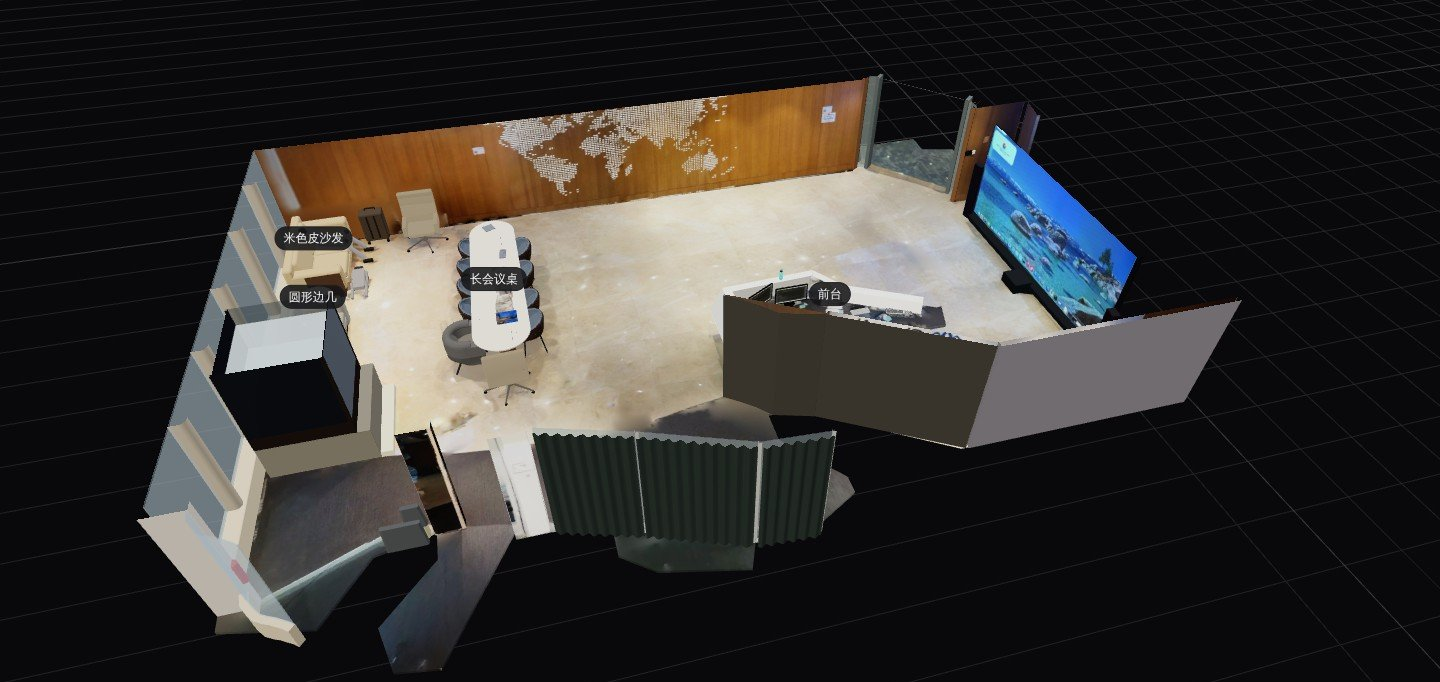
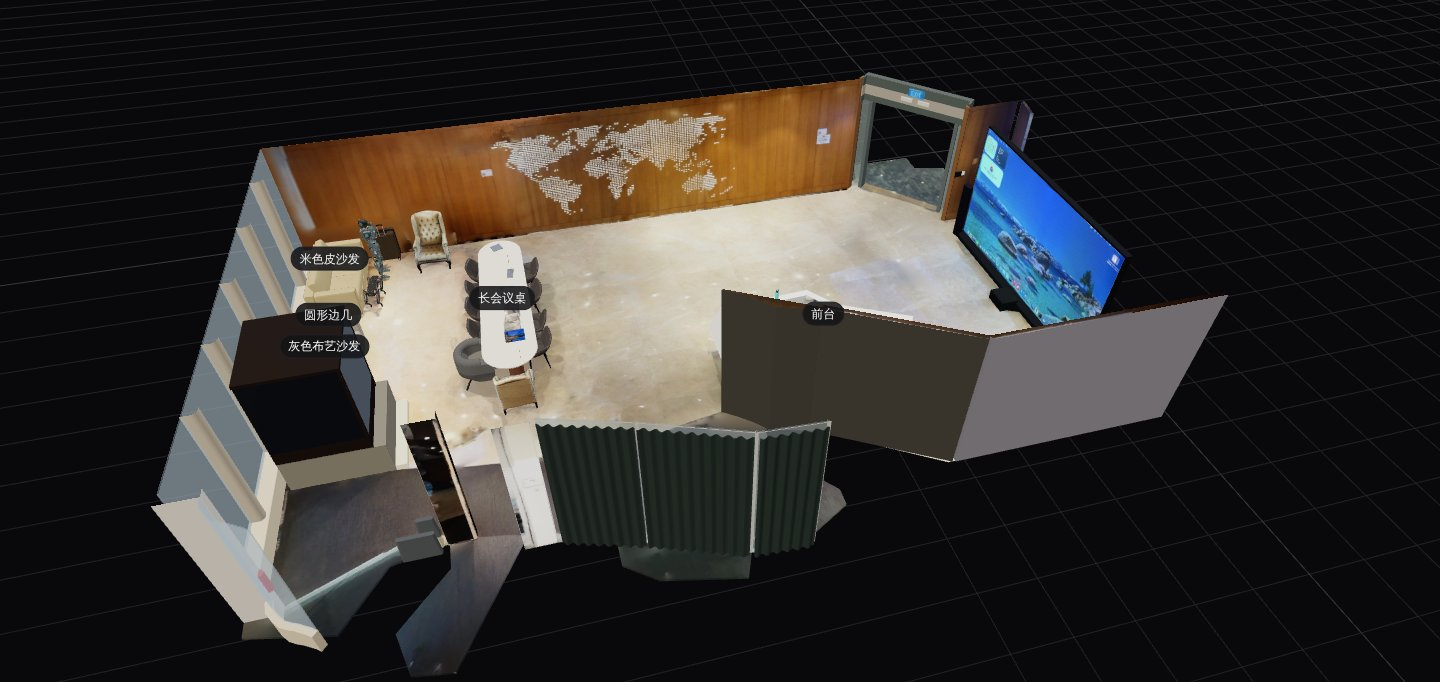
文档：演示说明改成前厅第 4 版（精致模型版）
开头的数量、效果（4.40 / 8.96 / 64.8%，与第 3 版、现有算法对照）和加载量；"怎么做出来的"补第二轮：两组换模型、
按导出后的样子复核、上线前的数据修正和遗留；逐件清单和署名表按物件集重新生成（26 件外部模型物件、16 个模型，
全部 CC-BY-4.0，导出成 17 个 glb）；复现步骤补第 4 版实际用的命令；更新线上一节写明发布页 demo-assets 和上传
工作流；本地全流程验证补第 4 版种子包的新库导入；展示图换成这次的截图。

Claude-Session: https://claude.ai/code/session_01FJGySrWzKJ4gCuSB2XMwW7

Changed region(s): [[0.0938, 0.0924, 0.875, 0.9853], [0.7812, 0.4927, 0.8438, 0.6158], [0.4688, 0.4927, 0.5, 0.5235]]

diff --git a/infra/chrono-cd/demo/README.md b/infra/chrono-cd/demo/README.md
@@ -1,30 +1,31 @@
 # 前厅 AI 物件集（演示空间 `chronoai-lobby`）
 
 [`lobby-authored.json`](lobby-authored.json) 是 ChronoAI 办公室前厅的 **AI 物件集**（设计 6.3"AI 逐件建模"，格式见
-[`recon/README.md`](../../../recon/README.md)"AI 物件集"）：本地的 AI 对着 Scaniverse 扫描逐件做出来的前厅，
-线上第 3 版的重建层就是它（"优化模型"视图里看到的），不再用物体重建算法的结果。第 3 版是处理服务还在时由部署配置种子
-导入的；服务端瘦身以后（[`docs/design/server-slim.md`](../../../docs/design/server-slim.md)），物件集只在本地用：
-`metaverse-recon bundle --authored` 把它打成重建包，再由命令行推送或由种子导入（下面"如何更新线上"）。
+[`recon/README.md`](../../../recon/README.md)"AI 物件集"）：本地的 AI 对着 Scaniverse 扫描逐件做出来的前厅。现在这份是
+**第二轮的精致模型版**，线上第 4 版的重建层就是它（"优化模型"视图里看到的）：在第 3 版（第一轮，大多数物件手写）的基础上，
+常见物件换成精致、带贴图的现成模型。第 1–3 版是处理服务还在时由部署配置种子导入的；服务端瘦身以后
+（[`docs/design/server-slim.md`](../../../docs/design/server-slim.md)），物件集只在本地用：`metaverse-recon bundle --authored`
+把它打成重建包，第 4 版由种子导入这个包（下面"如何更新线上"，清单和来源表在 [`lobby-r4/`](lobby-r4/)）。
+第 3 版的物件集在 git 历史里（`git show f05c624:infra/chrono-cd/demo/lobby-authored.json`）。
 
 | 内容 | 数量 |
 |---|---|
-| 模板 | 1 个（会议椅 `tpl-meeting-chair`，8 把会议椅共用） |
-| 物件 | 52 个：手写形状 36 个（其中 8 个是模板实例、13 个带烘焙指令）、外部模型 10 个（Objaverse，8 个不同的模型，全部 CC-BY-4.0）、结构 6 个 |
-| 结构 | `structure: "replace"`：地面、4 面墙、南面玻璃幕墙用物件集里的（算法结果按扫描实测改了 3 件的几何） |
-| `notes` | 整房评审与合并报告（每件怎么来的、改了什么、偏差、遗留问题），打包时写成建模记录 `notes.md`，提交的 `scriptRef` 指向它（种子用的包 `--seed` 不带） |
-| 大小 | 285,415 字节（上限 4MB） |
+| 模板 | 0 个（第 3 版的会议椅模板 `tpl-meeting-chair` 不再用，8 把会议椅改成外部模型物件） |
+| 物件 | 52 个：手写形状 20 个（其中 10 个带烘焙指令）、外部模型 26 个（Objaverse，16 个不同的模型，全部 CC-BY-4.0）、结构 6 个 |
+| 结构 | `structure: "replace"`：地面、4 面墙、南面玻璃幕墙用物件集里的（与第 3 版相同；算法结果按扫描实测改了 3 件的几何） |
+| `notes` | 第二轮的合并与复核记录（每件怎么来的、改了什么、偏差、遗留问题）和上线前的数据修正，打包时写成建模记录 `notes.md`，提交的 `scriptRef` 指向它（种子用的包 `--seed` 不带） |
+| 大小 | 136,817 字节（上限 4MB） |
 
 **效果**（整房 91,110 个扫描点，剖切掉 2.2 米以上；扫描点到模型的距离，厘米）：
 
 | | 均值 | 90% 分位 | 3 厘米以内 |
 |---|---|---|---|
 | 现有算法（算法物体 + 算法结构） | 7.11 | 15.13 | 51.3% |
-| 六组产出直接合并、结构沿用算法（评审前） | 5.74 | 13.18 | 54.3% |
-| 合并稿（结构改正 + 补漏建 + 穿插修正） | 4.31 | 8.71 | 67.0% |
-| **本物件集**（合并稿再经独立评审修正 5 处，线上第 3 版） | **4.19** | **8.18** | **68.2%** |
+| 第一轮定稿（线上第 3 版） | 4.19 | 8.18 | 68.2% |
+| **本物件集**（第二轮精致模型版，线上第 4 版） | **4.40** | **8.96** | **64.8%** |
 
-（以前这里写的 4.31 / 8.71 / 67.0% 是合并稿的数；独立评审修正后的定稿就是本目录的 `lobby-authored.json`，按同样的口径
-重算是 4.19 / 8.18 / 68.2%，见 [`docs/PROGRESS.md`](../../../docs/PROGRESS.md) 第 6 节、方法论第 1 章。）
+第二轮换的是外观：现成模型的造型、材质和贴图比手写的参数形状精致得多，但它们不是照着这间屋子做的，尺寸和比例只能按扫描
+缩放摆放，所以和扫描的距离比第一轮略大。网站"优化"视图要下载的接口数据约 18.7 MB（物件模型 18.3 MB），第 3 版约 12 MB。
 
 展示图（`showcase/`）：下面"本地全流程验证"里网站"优化"视图的截图（去掉了页面的标题栏和底部控件），烘焙贴图、
 灯光和网站上看到的一样：
@@ -32,8 +33,8 @@
 | | |
 |---|---|
 | ![总览](showcase/6-overview.jpg) | ![入口的 LED 大屏墙（烘焙贴图）](showcase/1-entry.jpg) |
-| ![前台](showcase/2-reception.jpg) | ![会议区](showcase/3-meeting.jpg) |
-| ![休息区](showcase/4-lounge.jpg) | |
+| ![前台](showcase/2-reception.jpg) | ![会议区：8 把会议椅换成同一个现成模型](showcase/3-meeting.jpg) |
+| ![休息区：机器狗、人形机器人、行李箱、休闲椅](showcase/4-lounge.jpg) | |
 
 ## 怎么做出来的
 
@@ -58,13 +59,30 @@
      立柱（六组都没认领）；
    - **穿插和悬空**：沙发靠背伸进窗台、会议椅座面伸进桌脚、几件东西悬空 2–6 厘米等，逐一改掉。
 
-   每件的过程、改动和偏差见 `notes`（物件集里的 `notes` 字段，也就是评审报告）。
+   每件的过程、改动和偏差见 `notes`（物件集里的 `notes` 字段，也就是评审报告）。以上是第一轮（线上第 3 版）。
+
+**第二轮（线上第 4 版）**：在第一轮定稿的基础上，按同样的"先搜后写"规则，把常见物件换成精致、带贴图的现成模型：
+
+- **两组并行**：座椅组（会议椅 8 把、休闲椅 2 把、两张沙发、圆形边几、灰色会议椅，共 14 件）和小件组（人形机器人、
+  机器狗、行李箱、背包、袋子、打印机，共 8 件），按编号整件替换第一轮的记录；8 把会议椅换成同一个外部模型摆 8 份，
+  会议椅模板不再被引用，删掉。
+- **按导入后的样子复核**：两组挑模型时看的是原文件，导出成受限 glb 以后有几件贴图坏了（多材质合成图集成了噪点、
+  平铺贴图出现划痕和接缝），逐件按导出后的样子重看：圆形边几 `table-02`、灰色会议椅 `chair-11` 退回第一轮的手写版，
+  两张沙发换成导出干净的另一个模型，机器狗为了不碰新沙发往房间里挪了 5 厘米。穿模、落地、朝向、尺度、颜色逐件看过。
+- **上线前的数据修正**（设计 S10）：12 件物件的标签去掉括号里的建模说明（会议椅、休闲椅、两张沙发；标签会成为公开
+  锚点的名称和"模型来源"面板的"用于"），说明挪进 `notes`；`sofa-01` 用"米色皮沙发"，与线上第 1–3 版建的公开锚点同名；
+  机器狗 `clutter-09` 去掉调色——那个调色是对着旧导出（丢了贴图的白模）调的，现在的导出带回原文件的深灰机身和橙色
+  关节，再乘调色就几乎全黑。
+
+遗留：休闲椅是古典拉扣款（实物是现代米色高背转椅）；机器人、机器狗是站姿（库里没有坐姿、靠姿的人形机器人）；两张沙发是
+同一个模型调两种颜色；前台显示器的屏幕按原文件是黑色。
 
 ## 逐件清单
 
 路线："手写"是 AI 按扫描实测写的参数形状（本仓库的内容）；"+ 烘焙贴图"表示有部件写了 `bake`，打包时从扫描烘焙成
 贴图；"模型库"是外部模型，打包时本地工具按地址下载、核对 sha256 和大小，把俯仰、横滚、缩放、调色烘进网格（偏航写进
-记录，只差偏航的共用一个文件），重新导出成受限的 glb。线上第 3 版是处理服务按当时同样的规则做的。
+记录，只差偏航的共用一个文件），重新导出成受限的 glb。第 4 版的包由本地工具 `bundle` 导出：26 件外部模型物件导出成
+17 个 glb（8 把会议椅、2 把休闲椅、2 台显示器只差偏航，各共用一个文件；两张沙发是同一个模型但调色不同，各一个文件）。
 
 | 区域 | 编号 | 名称 | 路线 | 来源与许可 |
 |---|---|---|---|---|
@@ -78,43 +96,42 @@
 | 前台 | `reception-monitor-1` | 显示器 | 模型库（Objaverse） | 《Computer Monitor 16:9 (Low Poly, Game Ready)》Skript47，CC-BY-4.0 |
 | 前台 | `reception-monitor-2` | 显示器 | 模型库（Objaverse） | 《Computer Monitor 16:9 (Low Poly, Game Ready)》Skript47，CC-BY-4.0 |
 | 前台 | `reception-office-chair` | 办公椅 | 模型库（Objaverse），调色 [141, 149, 151] | 《Office (home) black chair.》Nik Vega，CC-BY-4.0 |
-| 会议区 | `tpl-meeting-chair` | 会议椅（桶形扶手椅，四条外撇细腿） | 手写（模板，8 把会议椅共用） | 本仓库手写 |
-| 会议区 | `chair-02` | 会议椅 | 手写（模板 `tpl-meeting-chair` 的实例） | 本仓库手写 |
-| 会议区 | `chair-03` | 会议椅 | 手写（模板 `tpl-meeting-chair` 的实例） | 本仓库手写 |
-| 会议区 | `chair-04` | 会议椅 | 手写（模板 `tpl-meeting-chair` 的实例） | 本仓库手写 |
-| 会议区 | `chair-05` | 会议椅 | 手写（模板 `tpl-meeting-chair` 的实例） | 本仓库手写 |
-| 会议区 | `chair-07` | 会议椅 | 手写（模板 `tpl-meeting-chair` 的实例） | 本仓库手写 |
-| 会议区 | `chair-08` | 会议椅 | 手写（模板 `tpl-meeting-chair` 的实例） | 本仓库手写 |
-| 会议区 | `chair-09` | 会议椅 | 手写（模板 `tpl-meeting-chair` 的实例） | 本仓库手写 |
-| 会议区 | `chair-10` | 会议椅 | 手写（模板 `tpl-meeting-chair` 的实例） | 本仓库手写 |
+| 会议区 | `chair-02` | 会议椅 | 模型库（Objaverse） | 《Ervin gray leather black legs》sil3dfurniture，CC-BY-4.0 |
+| 会议区 | `chair-03` | 会议椅 | 模型库（Objaverse） | 《Ervin gray leather black legs》sil3dfurniture，CC-BY-4.0 |
+| 会议区 | `chair-04` | 会议椅 | 模型库（Objaverse） | 《Ervin gray leather black legs》sil3dfurniture，CC-BY-4.0 |
+| 会议区 | `chair-05` | 会议椅 | 模型库（Objaverse） | 《Ervin gray leather black legs》sil3dfurniture，CC-BY-4.0 |
+| 会议区 | `chair-07` | 会议椅 | 模型库（Objaverse） | 《Ervin gray leather black legs》sil3dfurniture，CC-BY-4.0 |
+| 会议区 | `chair-08` | 会议椅 | 模型库（Objaverse） | 《Ervin gray leather black legs》sil3dfurniture，CC-BY-4.0 |
+| 会议区 | `chair-09` | 会议椅 | 模型库（Objaverse） | 《Ervin gray leather black legs》sil3dfurniture，CC-BY-4.0 |
+| 会议区 | `chair-10` | 会议椅 | 模型库（Objaverse） | 《Ervin gray leather black legs》sil3dfurniture，CC-BY-4.0 |
 | 会议区 | `chair-11` | 灰色桶形会议椅 | 手写 | 本仓库手写 |
 | 会议区 | `meeting-notebook` | 桌上的灰色笔记本 | 手写 | 本仓库手写 |
 | 会议区 | `table-01` | 长会议桌 | 手写 | 本仓库手写 |
-| 休息区 | `chair-06` | 休闲椅（高背行政椅） | 模型库（Objaverse），调色 [232, 220, 204] | 《Low Poly Executive Conference Room Chair》Jeremy E. Grayson，CC-BY-4.0 |
-| 休息区 | `chair-12` | 休闲椅（高背行政椅） | 模型库（Objaverse），调色 [232, 220, 204] | 《Low Poly Executive Conference Room Chair》Jeremy E. Grayson，CC-BY-4.0 |
-| 休息区 | `clutter-08` | 行李箱 | 手写 | 本仓库手写 |
-| 休息区 | `clutter-09` | 机器狗 | 手写 | 本仓库手写 |
-| 休息区 | `lounge-robot` | 人形机器人（斜靠在米色沙发上） | 手写 | 本仓库手写 |
-| 休息区 | `sofa-01` | 米色皮沙发 | 手写 | 本仓库手写 |
-| 休息区 | `sofa-02` | 灰色布艺沙发 | 手写 | 本仓库手写 |
+| 休息区 | `chair-06` | 休闲椅 | 模型库（Objaverse） | 《Upholstered Chair》markpi，CC-BY-4.0 |
+| 休息区 | `chair-12` | 休闲椅 | 模型库（Objaverse） | 《Upholstered Chair》markpi，CC-BY-4.0 |
+| 休息区 | `clutter-08` | 行李箱 | 模型库（Objaverse），调色 [210, 162, 158] | 《Hard Trolley Bag With Adjustable Handle》adrian saputra，CC-BY-4.0 |
+| 休息区 | `clutter-09` | 机器狗（四足） | 模型库（Objaverse） | 《Boston Dynamics robot spot》ASHISH，CC-BY-4.0 |
+| 休息区 | `lounge-robot` | 人形机器人（站在米色沙发前） | 模型库（Objaverse） | 《Robot A.L.E.X》shonwall360，CC-BY-4.0 |
+| 休息区 | `sofa-01` | 米色皮沙发 | 模型库（Objaverse），调色 [215, 198, 153] | 《Simple Light Gray Couch》catalinberta，CC-BY-4.0 |
+| 休息区 | `sofa-02` | 灰色布艺沙发 | 模型库（Objaverse），调色 [195, 190, 178] | 《Simple Light Gray Couch》catalinberta，CC-BY-4.0 |
 | 休息区 | `table-02` | 圆形边几 | 手写 | 本仓库手写 |
 | 东侧隔断与柜子 | `cabinet-03` | 东侧玻璃隔断 | 手写 | 本仓库手写 |
 | 东侧隔断与柜子 | `cabinet-04` | 杂物（布袋） | 手写 | 本仓库手写 |
 | 东侧隔断与柜子 | `cabinet-05` | 镜面玻璃展示柜 | 手写 | 本仓库手写 |
 | 东侧隔断与柜子 | `cabinet-06` | 东南角白色墙垛（挂灭火器） | 手写 | 本仓库手写 |
 | 东侧隔断与柜子 | `cabinets-se-curved-window` | 东南角弧形窗（窗台 + 玻璃） | 手写 | 本仓库手写 |
-| 杂物 | `clutter-01` | 黑色背包 | 模型库（Objaverse），调色 [227, 227, 255] | 《Plain Backpack》eeelabvisual，CC-BY-4.0 |
-| 杂物 | `clutter-02` | 蓝色购物袋 | 手写 + 烘焙贴图 | 本仓库手写 |
+| 杂物 | `clutter-01` | 黑色背包 | 模型库（Objaverse），调色 [180, 186, 202] | 《Oakley Kitchen Sink Backpack Model》Quinn Kuslich，CC-BY-4.0 |
+| 杂物 | `clutter-02` | 蓝色购物袋 | 模型库（Objaverse），调色 [110, 130, 230] | 《Tote Bag》Jeremy E. Grayson，CC-BY-4.0 |
 | 杂物 | `clutter-04` | 桌上的白色袋子和包装盒 | 手写 + 烘焙贴图 | 本仓库手写 |
 | 杂物 | `clutter-05` | 桌上的白色纸袋和蓝色文件夹 | 手写 + 烘焙贴图 | 本仓库手写 |
 | 杂物 | `clutter-table-pouch` | 桌上的格纹手拿包 | 手写 + 烘焙贴图 | 本仓库手写 |
 | 评审补建 | `pillar-01` | 白色墙垛（玻璃隔断南端） | 手写 + 烘焙贴图 | 本仓库手写 |
 | 评审补建 | `pillar-02` | 深色立柱（通道口南侧） | 手写 + 烘焙贴图 | 本仓库手写 |
-| 评审补建 | `reception-black-bag` | 黑色袋子（打印桌角、靠门） | 手写 + 烘焙贴图 | 本仓库手写 |
+| 评审补建 | `reception-black-bag` | 黑色纸袋（打印桌角、靠门） | 模型库（Objaverse） | 《IVY Shopping Bag》Baha Sukkar，CC-BY-4.0 |
 | 评审补建 | `reception-door` | 前台后的棕色木门 | 手写 + 烘焙贴图 | 本仓库手写 |
 | 评审补建 | `reception-print-desk` | 打印桌（深色矮桌） | 手写 | 本仓库手写 |
-| 评审补建 | `reception-printer` | 打印机 | 模型库（Objaverse），调色 [50, 50, 52] | 《Printer- Low Poly》CG Buzz，CC-BY-4.0 |
-| 评审补建 | `reception-red-bag` | 红白花纹袋子（靠门立在打印桌上） | 手写 + 烘焙贴图 | 本仓库手写 |
+| 评审补建 | `reception-printer` | 打印机 | 模型库（Objaverse） | 《Printer》Radomir3D，CC-BY-4.0 |
+| 评审补建 | `reception-red-bag` | 红白花纹纸袋 | 模型库（Objaverse），调色 [210, 115, 115] | 《Covers & Wraps Paper Bag DEMO》nidhinobinu1，CC-BY-4.0 |
 | 结构 | `floor` | 地面 | 结构，算法原样，扫描贴图 | 基线的结构算法 |
 | 结构 | `glazing-z15.38-1` | 玻璃（南面幕墙：窗台、玻璃、5 根竖梃） | 结构，算法结果按实测改几何 | 基线的结构算法 + 本仓库手改 |
 | 结构 | `wall-a211-1` | 墙面（前台后的 LOGO 墙） | 结构，算法结果按实测改几何，扫描贴图 | 基线的结构算法 + 本仓库手改 |
@@ -122,28 +139,37 @@
 | 结构 | `wall-x3.03-1` | 墙面（入口右侧木墙） | 结构，算法原样，扫描贴图 | 基线的结构算法 |
 | 结构 | `wall-x9.55-1` | 墙面（东墙北段，大屏和 LOGO 墙之间） | 结构，算法原样，扫描贴图 | 基线的结构算法 |
 
-锚点：打包时按类别建议（`props.category`，第 3 版是处理服务按同样的规则建的）——长会议桌 `table-01`、圆形边几 `table-02`（桌子）、前台 `counter-01`、
-两张沙发 `sofa-01`、`sofa-02`（区域）；椅子没有在提示里要求座位锚点，不建。
+锚点：打包时按类别建议（`props.category`）——长会议桌 `table-01`、圆形边几 `table-02`（桌子）、前台 `counter-01`、
+两张沙发 `sofa-01`、`sofa-02`（区域）；椅子没有在提示里要求座位锚点，不建。这 5 个锚点线上第 1–3 版已经建过，第 4 版导入时
+按编号全部跳过（锚点只增不删，已有的不覆盖）；新库里由第 4 版建，标签与线上相同。
 
 ## 模型来源与署名
 
-10 个外部模型物件用了 Objaverse 里的 8 个模型，都是 [CC BY 4.0](https://creativecommons.org/licenses/by/4.0/)
+26 个外部模型物件用了 Objaverse 里的 16 个模型，都是 [CC BY 4.0](https://creativecommons.org/licenses/by/4.0/)
 （署名即可商用，不传染）。文件经 Objaverse 在 Hugging Face 上的数据集（`allenai/objaverse`）下载，来源页是作者在
 Sketchfab 上发布的原页面。**改动**：把物件集里的摆放和调色（`tint`）烘进网格、按物件模型的限制减面、缩小贴图后
-重新导出 glb（第 3 版由处理服务做，以后由本地工具 `bundle` 做）；没有改动模型的外形设计。署名随每个物件记录的 `props.source` 保存，网站在场景里有 CC-BY
+重新导出 glb（本地工具 `bundle` 做）；没有改动模型的外形设计。署名随每个物件记录的 `props.source` 保存，网站在场景里有 CC-BY
 模型时画面底边常驻一行简短署名，"全部来源"列出完整的标题、作者、许可和来源页，并注明模型经处理后重新导出（与原文件
 不同），点选物件时信息面板里也有。
 
 | 标题 | 作者 | 来源页 | 许可 | 用在 | 原文件字节数 |
 |---|---|---|---|---|---|
-| Low Poly Executive Conference Room Chair | Jeremy E. Grayson | <https://sketchfab.com/3d-models/2d5349cf3aec4578ad94568aedc56eab> | CC-BY-4.0 | `chair-06`、`chair-12` | 55,452 |
-| Plain Backpack | eeelabvisual | <https://sketchfab.com/3d-models/e67e1b3c67804122b70eef386ebdc0be> | CC-BY-4.0 | `clutter-01` | 852,064 |
+| Ervin gray leather black legs | sil3dfurniture | <https://sketchfab.com/3d-models/e51ca8e20a3340b8aa44fa54f7bafe4f> | CC-BY-4.0 | `chair-02`、`chair-03`、`chair-04`、`chair-05`、`chair-07`、`chair-08`、`chair-09`、`chair-10` | 3,610,012 |
+| Upholstered Chair | markpi | <https://sketchfab.com/3d-models/f2a71fcd970c49889793362244cd0186> | CC-BY-4.0 | `chair-06`、`chair-12` | 2,040,308 |
+| Oakley Kitchen Sink Backpack Model | Quinn Kuslich | <https://sketchfab.com/3d-models/c2440ae21b14485095ba3da4d947f1ee> | CC-BY-4.0 | `clutter-01` | 12,674,300 |
+| Tote Bag | Jeremy E. Grayson | <https://sketchfab.com/3d-models/0b088d83e5f9458d88ab923e126f519e> | CC-BY-4.0 | `clutter-02` | 538,252 |
+| Hard Trolley Bag With Adjustable Handle | adrian saputra | <https://sketchfab.com/3d-models/1758ad5207d943d597db8ff2b21bf827> | CC-BY-4.0 | `clutter-08` | 4,164,416 |
+| Boston Dynamics robot spot | ASHISH | <https://sketchfab.com/3d-models/71354fd599e34db898a7d083851b792a> | CC-BY-4.0 | `clutter-09` | 14,806,704 |
+| Robot A.L.E.X | shonwall360 | <https://sketchfab.com/3d-models/82fcab4a190f4663ab2717dc5f40e40e> | CC-BY-4.0 | `lounge-robot` | 4,699,136 |
+| IVY Shopping Bag | Baha Sukkar | <https://sketchfab.com/3d-models/f7ac28c562b54b4db51ff5784a967bdb> | CC-BY-4.0 | `reception-black-bag` | 307,956 |
 | Water Bottle Simple Textures | ethan.kowalchuk | <https://sketchfab.com/3d-models/910cf7e424e6433abc8a7763bcf9f323> | CC-BY-4.0 | `reception-bottle` | 405,020 |
 | Keyboard | Arnau Rocher Alcayde | <https://sketchfab.com/3d-models/e0d3de544b824070925f28a191c789a9> | CC-BY-4.0 | `reception-keyboard-1` | 696,192 |
 | Keyboard 75% | Kenny Pang | <https://sketchfab.com/3d-models/d859eb1b182d46dbad4e1cdefd8255b4> | CC-BY-4.0 | `reception-keyboard-2` | 679,588 |
 | Computer Monitor 16:9 (Low Poly, Game Ready) | Skript47 | <https://sketchfab.com/3d-models/336de680dd9a4d84943d05d9c7dde1b0> | CC-BY-4.0 | `reception-monitor-1`、`reception-monitor-2` | 310,624 |
 | Office (home) black chair. | Nik Vega | <https://sketchfab.com/3d-models/fa8b3412aa10480f9a38aedadd0fbac8> | CC-BY-4.0 | `reception-office-chair` | 2,576,732 |
-| Printer- Low Poly | CG Buzz | <https://sketchfab.com/3d-models/8a3a68f84f4d4a34973b527875a7314b> | CC-BY-4.0 | `reception-printer` | 915,264 |
+| Printer | Radomir3D | <https://sketchfab.com/3d-models/c15d51aaa26b462ab62d7e020618a9df> | CC-BY-4.0 | `reception-printer` | 119,020 |
+| Covers & Wraps Paper Bag DEMO | nidhinobinu1 | <https://sketchfab.com/3d-models/d9fe4b53538c481084f0f6e78b5f59e4> | CC-BY-4.0 | `reception-red-bag` | 652,052 |
+| Simple Light Gray Couch | catalinberta | <https://sketchfab.com/3d-models/2852c1305da44d359c3a56fb779f26f0> | CC-BY-4.0 | `sofa-01`、`sofa-02` | 4,454,732 |
 
 下载地址（`model.url`）都在 `huggingface.co`，会重定向到 `hf.co` 的 CDN 子域名（实测 `us.aws.cdn.hf.co`），本地工具的
 主机列表 `METAVERSE_RECON_MODEL_HOSTS`（默认含 `huggingface.co` 和后缀 `.hf.co`）覆盖了这两跳。
@@ -203,6 +229,22 @@ metaverse-recon bundle --authored out/authored.json --webmodel assets/<网页用
 metaverse bundle check
 ```
 
+线上第 4 版的包就是这样打的（已有空间，没有跑 `align`；物件集是本目录的定稿，所以跳过第 1–3 步）：
+
+```bash
+metaverse init chronoai-lobby && cd chronoai-lobby
+NODE_USE_ENV_PROXY=1 metaverse pull --share '<演示链接>' --assets   # 第 3 版的变换、两档网页用模型、贴图（35 个文件）
+metaverse-recon scan-zip --member mesh.drc=<mesh.drc> --member tex.jpg=<tex.jpg>   # 两个 Scaniverse 原文件；哈希 bfda42ee4c47…，与线上相同
+METAVERSE_RECON_CACHE=<下载过模型的缓存> metaverse-recon bundle --seed \
+  --authored ../infra/chrono-cd/demo/lobby-authored.json \
+  --webmodel assets/a2b389b0ef94….glb --webmodel assets/6f02b2de58ba….glb \
+  --base <prepare 的基线目录> --textures-dir assets \
+  --note "前厅第 4 版：常见物件换成精致带贴图的现成模型"           # 40 秒；最后自动跑 metaverse bundle check --seed
+```
+
+`NODE_USE_ENV_PROXY=1` 只在要经 HTTPS 代理上网的环境里需要（Node 自带的 fetch 默认不读代理变量）。结构贴图引用的是
+基线算出的贴图哈希：`--base` 给 `prepare` 的输出目录，或者 `--textures-dir` 给 `pull --assets` 下载的贴图（线上已有）。
+
 物件的 `label` 会成为公开锚点的标签和"模型来源"面板的"用于"：只写给访客看的名称，建模说明（用了哪个库模型、怎么调色）
 写进 `notes`。`bundle` 打包后会列出全部公开锚点的标签，发布前看一遍——锚点只增不删，建出来以后后面的包改不掉。
 
@@ -212,7 +254,7 @@ metaverse bundle check
 ```bash
 cd recon && .venv/bin/python -c "import json; from metaverse_recon.authored import parse_authored; \
 p = parse_authored(json.load(open('../infra/chrono-cd/demo/lobby-authored.json'))); \
-print(len(p['templates']), len(p['entities']), len(p['models']))"      # 1 52 10
+print(len(p['templates']), len(p['entities']), len(p['models']))"      # 0 52 26
 ```
 
 本地全流程（打包 → 推送发布 → 网站看效果）：`infra/dev/up.sh` 起全套，工作区 `metaverse init <空间> --mode direct …`，
@@ -222,9 +264,11 @@ print(len(p['templates']), len(p['entities']), len(p['models']))"      # 1 52 10
 
 线上演示空间由部署配置种子驱动（[`../README.md`](../README.md) 第 8 步"演示数据"）。物件集改了以后有两条路：
 
-1. **种子导入重建包**（设计 7.3、7.4，前厅第 4 版按这条走，托管方式待用户确认，设计第 14 节）：`metaverse-recon bundle --seed`
-   打种子用的包（会公开：去掉内部锚点和建模记录）→ 大文件按 `<sha256>.<扩展名>` 传到发布页 → 写来源表
-   （扫描 zip 写成两个 Scaniverse 成员）→ 清单和来源表提交进本目录的 `lobby-r<版本>/` → 种子配置的 `bundle` 引用这次
+1. **种子导入重建包**（设计 7.3、7.4，前厅第 4 版按这条走）：`metaverse-recon bundle --seed`
+   打种子用的包（会公开：去掉内部锚点和建模记录）→ 大文件按 `<sha256>.<扩展名>` 传到本仓库的发布页 `demo-assets`
+   （`gh release upload demo-assets <文件>`，同名已存在就跳过；没有 gh 写权限时用工作流
+   [`.github/workflows/demo-assets.yml`](../../../.github/workflows/demo-assets.yml)，用法写在文件开头）→ 写来源表
+   （扫描 zip 写成两个 Scaniverse 成员，其余写发布页的下载地址）→ 清单和来源表提交进本目录的 `lobby-r<版本>/` → 种子配置的 `bundle` 引用这次
    提交的 raw 地址（按 40 位提交哈希固定）和两个文件的 sha256、大小，`revision` 加一 → `node infra/dev/demo-seed.mjs
    compact infra/chrono-cd/demo-seed.json` 的输出就是 `METAVERSE_DEMO_SEED` 的值，跑 `node infra/chrono-cd/check-app.mjs`，
    再按 [`../README.md`](../README.md) 第 8 步只改这一项。接口服务重启后在同一个空间里导入这个包、发布一次
@@ -235,16 +279,25 @@ print(len(p['templates']), len(p['entities']), len(p['models']))"      # 1 52 10
 
 ## 本地全流程验证
 
+**第 4 版种子包**（2026-11-10，设计 S10，4 核）：本机 `infra/dev/up.sh --demo-seed=<种子>` 起全套、用新库，种子就是
+本目录 `lobby-r4/` 的清单，来源表只把 39 个文件的地址换成本机 https 服务（自签证书），扫描照常从 scaniverse.com 下载：
+
+- 种子建空间、下载 41 个文件（含清单，40,492,219 字节）、核对、展开（59 条操作）、发布用了 8.8 秒，发布成第 2 次提交
+  "前厅第 4 版：常见物件换成精致带贴图的现成模型（部署配置种子第 4 版）"，`actor.kind = rebuild`；快照里 52 件物件、
+  5 个公开锚点（前台、米色皮沙发、灰色布艺沙发、长会议桌、圆形边几）；重启后 `AlreadyDone`，不再下载；
+- 网站"优化"视图：52 件物件、20 件带贴图，"模型来源"常驻署名列出 16 个模型；接口数据 18.7 MB（物件模型 18.3 MB、
+  贴图 0.28 MB），本机 2.3 秒画出来；"原始"视图只下载网页用模型（13.4 MB），与第 3 版相同；上面的展示图就是这次的截图。
+
 **服务端瘦身以后**（2026-11-10，`docs/design/server-slim.md` S9 的本地全流程，4 核）：
 
-- **本地打包 → 推送发布**：精致模型版物件集（外部模型物件 26 件，第 3 版之后的第二轮，还没上线）在新空间的工作区里
+- **本地打包 → 推送发布**：精致模型版物件集（外部模型物件 26 件，第 3 版之后的第二轮，上线前的数据修正之前）在新空间的工作区里
   `metaverse-recon align` → `bundle --authored`（模型从本地缓存按哈希取，40 秒）→ `metaverse bundle push --publish`
   （重建身份，28 秒）：52 件物件、5 个建议锚点、物件模型 17 个文件（8 把会议椅只差偏航，共用一个 glb）、贴图 20 张；
   网站优化视图的接口数据 18.7 MB（物件模型 18.3 MB），以前按处理服务的导出估计约 47.6 MB（物件模型 38.2 MB）；
 - **种子导入同一个包**：包放在本机 https 服务（自签证书），新库里种子建空间、下载 41 个文件、核对、展开、发布用了
   4.8 秒，结果与命令行发布的逐项相同（物件、锚点、扫描、网页用模型）；重启后 `AlreadyDone`，不再下载；
 - **第 4 版演练**：在用改造前的代码（处理服务）按旧种子写出第 1–3 版的库上换成新代码，`metaverse pull --scan` 取回扫描
-  和变换，本目录的 `lobby-authored.json` 按线上的两档网页用模型重新打包、推送：扫描、网页用模型和 23 张贴图按哈希复用，
+  和变换，当时本目录的 `lobby-authored.json`（第一轮，第 3 版的物件集）按线上的两档网页用模型重新打包、推送：扫描、网页用模型和 23 张贴图按哈希复用，
   只重新上传了 8 个物件模型，锚点 5 个全部跳过（编号已存在），发布为第 4 次提交；第 1–3 版的快照照常回放，逐字节不变。
 
 
